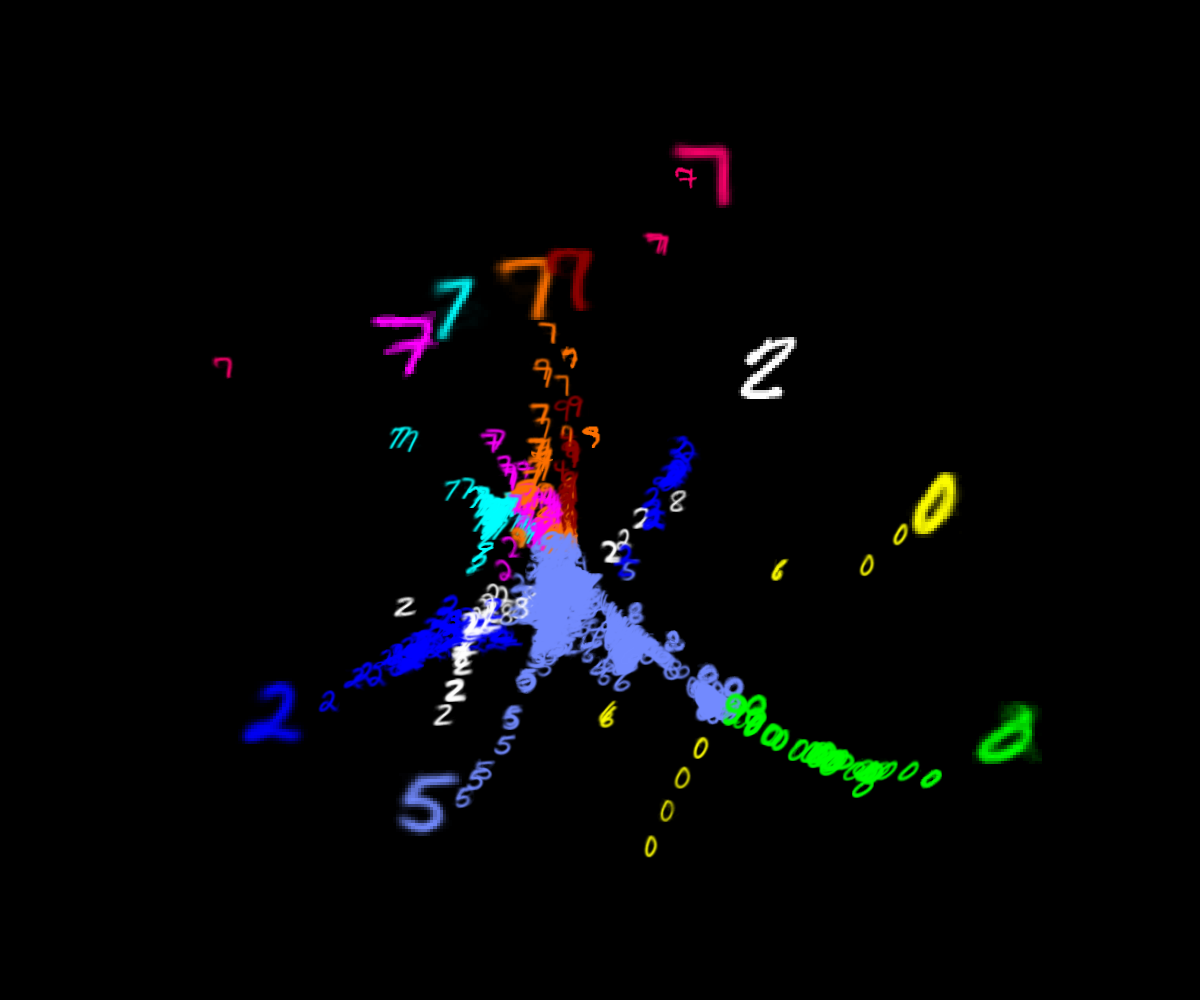
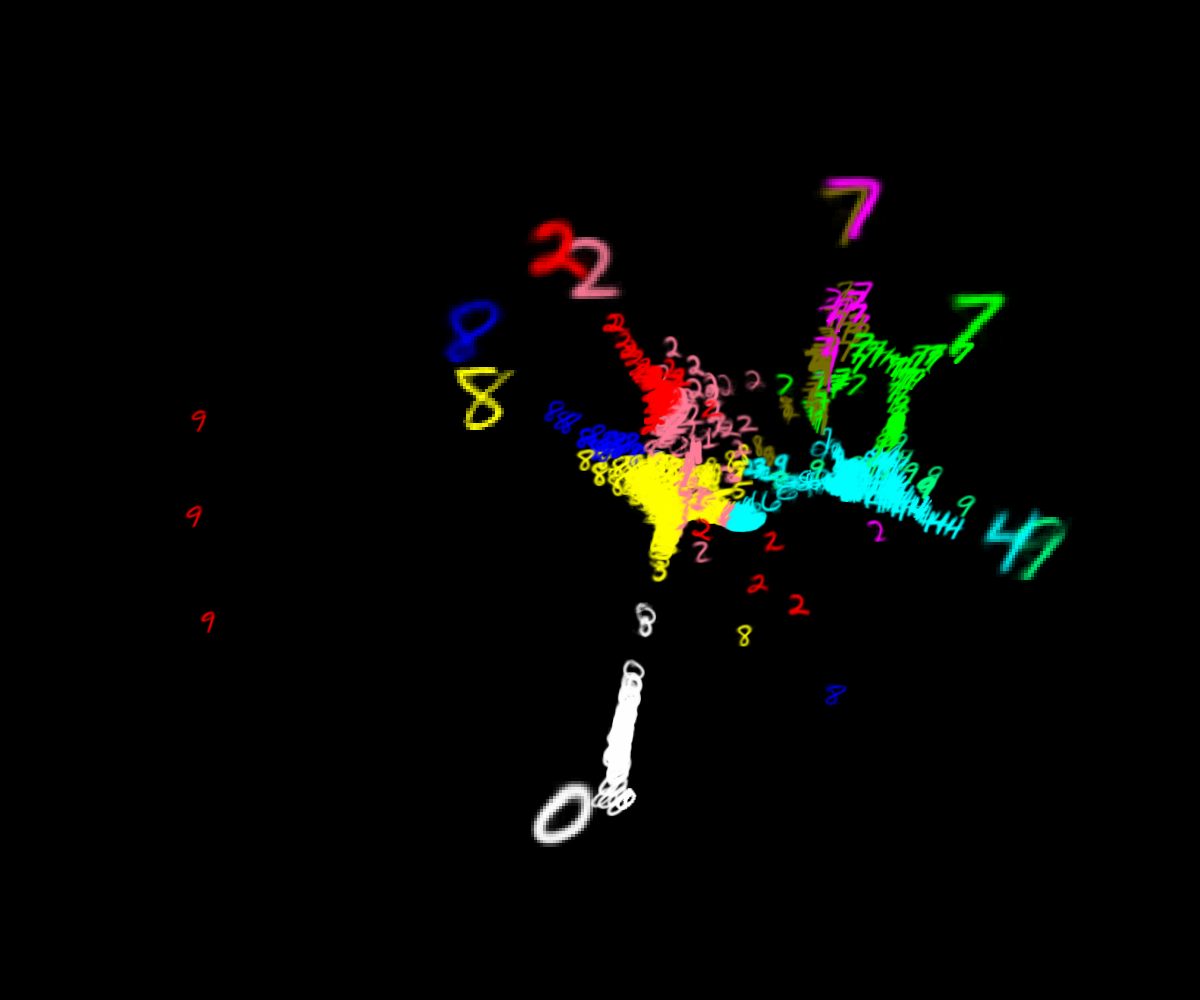
Self inclusion fix

diff --git a/clean_code/problem.py b/clean_code/problem.py
@@ -52,7 +52,7 @@ class Problem:
 		X = self.points.points							# shape (n, d)
 		n = X.shape[0]
 
-		# k-NN search (k+1 because the first neighbor is the point itself)
+		# k-NN search (k+1 to cover self-inclusion)
 		nbrs = NearestNeighbors(n_neighbors=config.params['k-nearest-neighbors'] + 1, algorithm='auto').fit(X)
 		_, indices = nbrs.kneighbors(X)
 
@@ -61,9 +61,10 @@ class Problem:
 		weight = 1.0 / config.params['k-nearest-neighbors']
 
 		for i in range(n):
-			for j in indices[i][1:]:					# skip the point itself
-				kernel[i, j] = weight * self.points.weights[i] * self.points.weights[j] 
-				kernel[j, i] = weight * self.points.weights[j] * self.points.weights[i]	# keep it symmetric
+			for j in indices[i]:
+				if j != i:
+					kernel[i, j] = weight * self.points.weights[i] * self.points.weights[j]
+					kernel[j, i] = weight * self.points.weights[j] * self.points.weights[i]  # symmetric
 
 		# Constant connection to the ground node
 		if (universalGround):

diff --git a/clean_code/MNIST_main.py b/clean_code/MNIST_main.py
@@ -55,7 +55,7 @@ landmarks = []
 for digit in range(10):
 	landmarks.append(landmark.Landmark(random.randint(0, centroids.shape[0]), 1.0))
 
-mnist_problem = problem.Problem(point_set)
+mnist_problem = problem.Problem(point_set, r=1)
 mnist_problem.optimize(landmarks, target_avg_voltage=0.9, radius=10)
 
 # Initialize the map

diff --git a/clean_code/solver.py b/clean_code/solver.py
@@ -70,3 +70,14 @@ class Solver:
 			landmarks.pop()
 
 		return self.voltages
+
+def main():
+    parser = argparse.ArgumentParser(description="Testing and verifying solver works")
+    args = parser.parse_args()
+
+    config.params = vars(args)
+
+    
+
+if __name__ == "__main__":
+    main()
